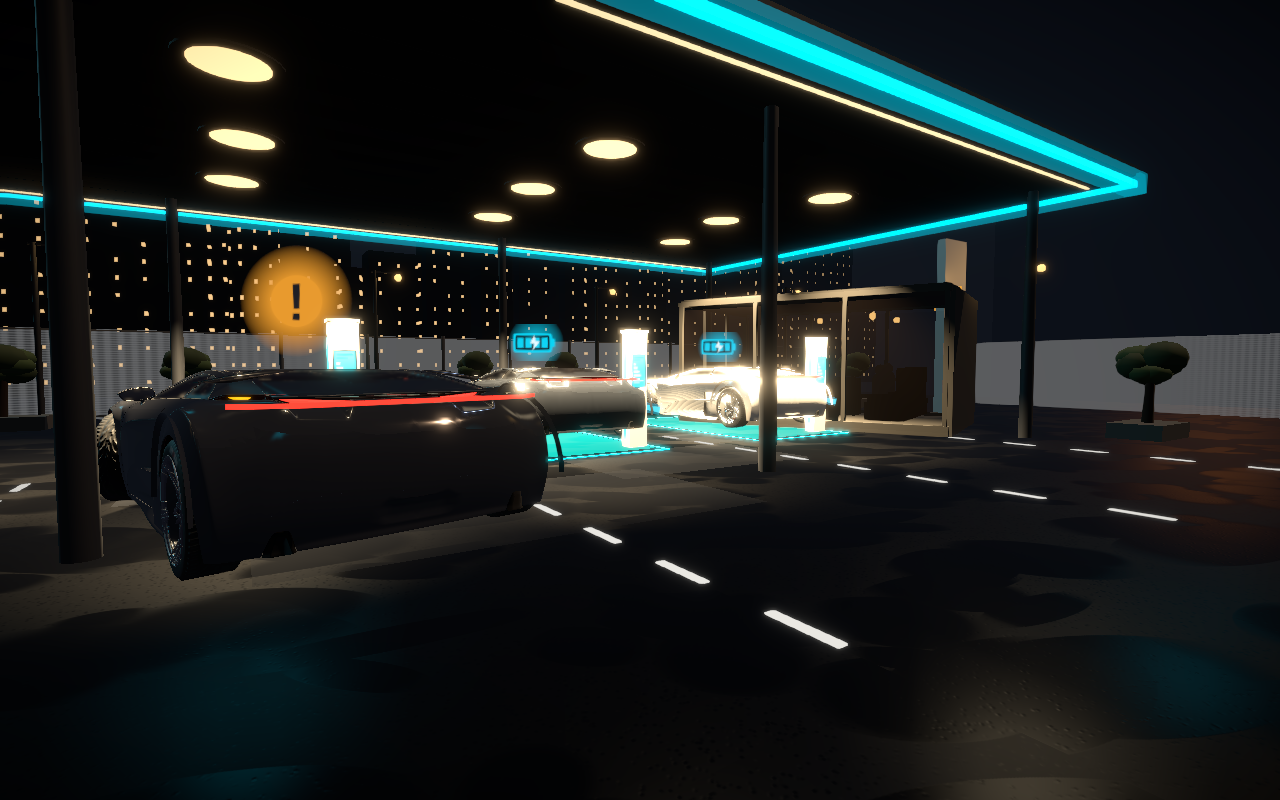
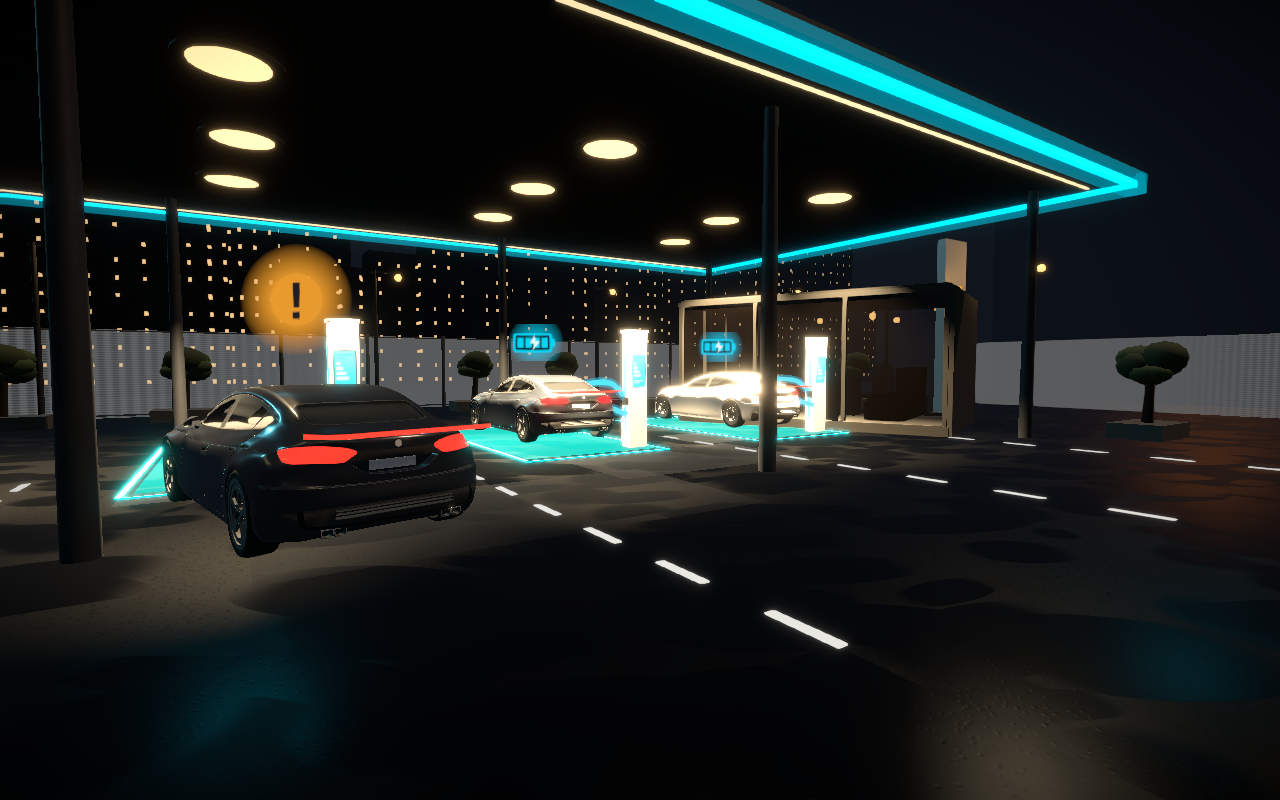
fix: sink generic sedan onto pads and refresh stills
Hide leftover under-car decals, then drop the hull another 3.5cm so wheels read as grounded on wet asphalt. Recapture startNight and rear-34 stills with the Sketchfab 4-door hull.

Changed region(s): [[0.0, 0.4375, 0.7188, 0.7812], [0.9375, 0.5625, 0.9688, 0.5938]]

diff --git a/src/world/cars.ts b/src/world/cars.ts
@@ -172,7 +172,8 @@ function fitSedan(scene: THREE.Group, kind: HullKind): THREE.Group {
   });
   wrap.updateMatrixWorld(true);
   box.setFromObject(wrap);
-  scene.position.y -= box.min.y;
+  /* Wheels sit on the pad; a hair of extra sink kills the float look. */
+  scene.position.y -= box.min.y + 0.035;
   wrap.updateMatrixWorld(true);
   return wrap;
 }
